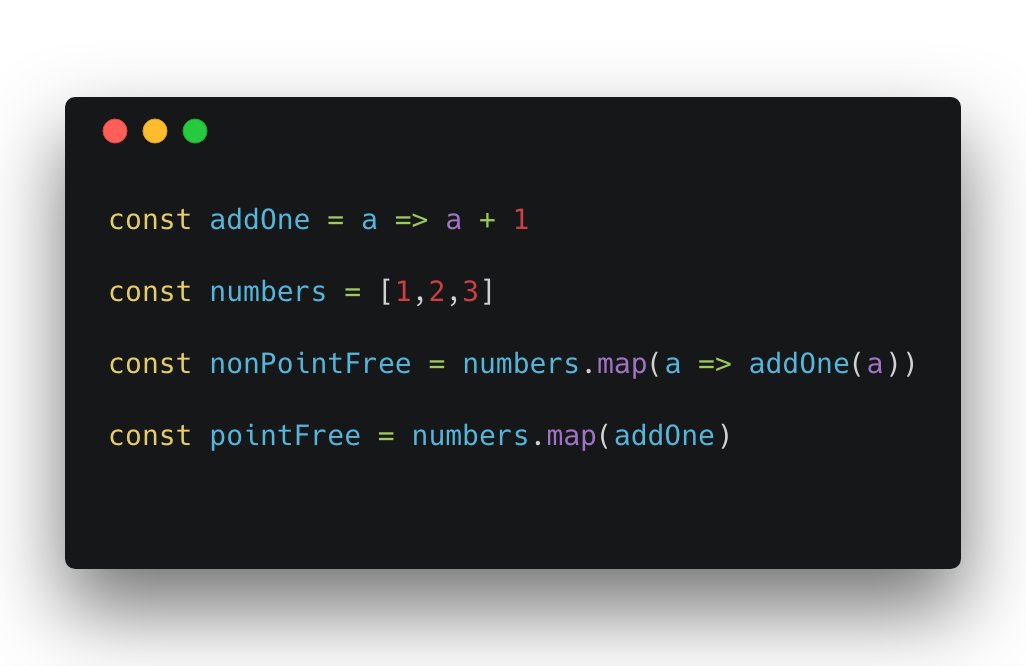
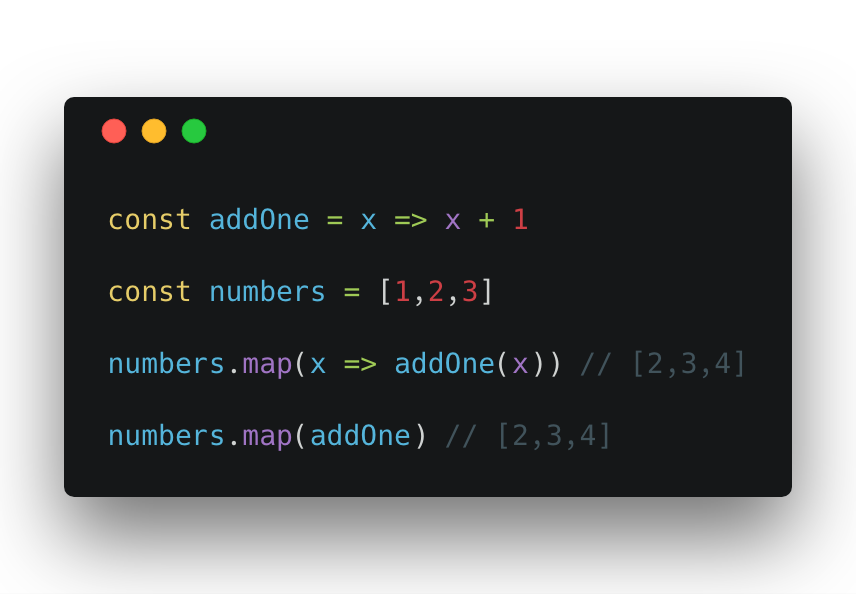
Scaffolding, just saving my place

diff --git a/src/app.css b/src/app.css
@@ -26,6 +26,8 @@ a {
 
 img {
   max-width: 100%;
+  margin-left: auto;
+  margin-right: auto;
 }
 
 nav {
@@ -47,6 +49,9 @@ nav a {
 
 .tiny {
   font-size: 12px;
+  max-width: 80%;
+  margin-left: auto;
+  margin-right: auto;
 }
 
 @media (min-width: 768px) {

diff --git a/content/collections/posts/get-to-the-point-free.md b/content/collections/posts/get-to-the-point-free.md
@@ -8,8 +8,20 @@ tags:
 - eta conversion
 ---
 
-No one likes to repeat themselves.
+Whether it's in conversation, code, or the fifth grade, one likes to repeat themselves. Software is no exception. We work hard to avoid working hard. Avoiding repetition is writ in our DNA. We're no different than a cat chasing birds or a frog wanting to play the guitar.
+
+<br/>
+## A Tisket, A Tacit
+<hr/>
+
+Before go into what **point free style** (AKA **tacit programming**) is, let's look at some code.
 
 <div class="tiny">![point free style](/images/pointfree.png)
 <br/>
 *code samples were made simple by using [Carbon](https://carbon.now.sh/)*</div>
+
+Not too shabby eh? Never let it be said that I can't create a damned good `addOne` function. Damned good.
+
+Of course that isn't what we're focusing on just now. What we're concerning ourselves with is the difference between the two lines at the end. Functionally they accomplish the same thing yet there is a slight difference. The former introduces an unnecessary intermediate function that calls `addOne`. It adds a layer of redundancy. The latter just simply passes `addOne` to the map function resulting in a much more declarative, terse solution.
+
+The process of converting the first line to the second is known as <a target="_blank" href="http://people.cs.aau.dk/~normark/prog3-03/html/notes/eval-order-note-eta.html">eta conversion</a> which simply means that we recognize 
